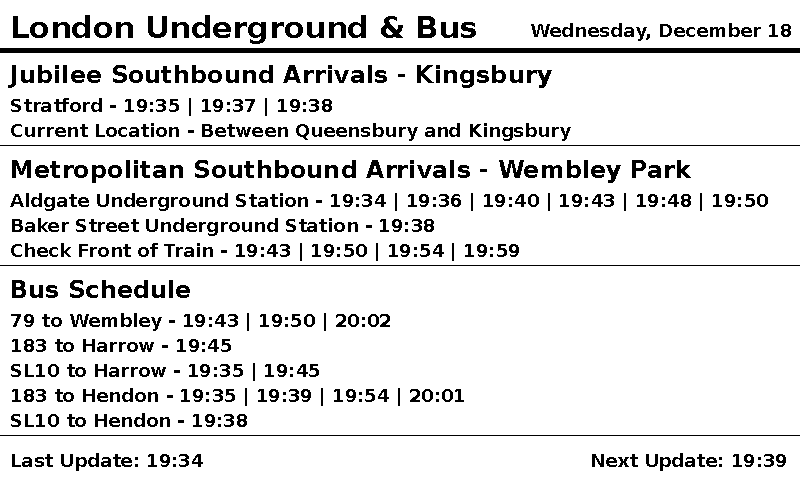
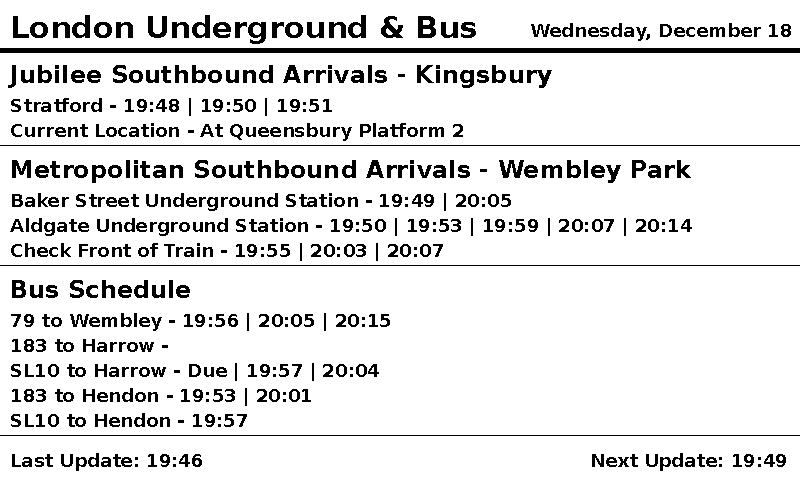
bug fixes

diff --git a/main.py b/main.py
@@ -78,7 +78,7 @@ def full_refresh_api_calls():
   }
 
 def partial_refresh_api_call():
-  kingsburyLatestArrivals = get_arrivals_and_latest_location(kingsbury_station_id, kingsbury_platform_name)
+  return get_arrivals_and_latest_location(kingsbury_station_id, kingsbury_platform_name)
 
 def generate_image():
   result = full_refresh_api_calls()
@@ -94,8 +94,8 @@ def generate_image():
   current_time = now.strftime("%H:%M")
 
   # Add 5 minutes to the current time
-  time_plus_five_minutes = now + timedelta(minutes=5)
-  current_time_plus_five = time_plus_five_minutes.strftime("%H:%M")
+  time_plus_x_minutes = now + timedelta(minutes=6)
+  current_time_plus_five = time_plus_x_minutes.strftime("%H:%M")
 
   image = Image.new("1", (WIDTH, HEIGHT), background_color)  # 1-bit monochrome image
   draw = ImageDraw.Draw(image)
@@ -163,13 +163,14 @@ if count == 0:
       count += 1
       set_refresh_count(count)
 else:
-  partial_refresh_api_call()
+  kingsburyLatestArrivals = partial_refresh_api_call()
   epd.init_part()
   reuse_image = Image.open("output.png")
   reused_draw = ImageDraw.Draw(reuse_image)
   reused_draw.rectangle((5, 90, 600, 140), fill = background_color)
   reused_draw.text((10, 95), "Stratford - " + str(kingsburyLatestArrivals['arrival_times']), font=font_small, fill=font_color)
   reused_draw.text((10, 120), "Current Location - " + str(kingsburyLatestArrivals['current_location']), font=font_small, fill=font_color)
+  reuse_image.save("output.png")
   epd.display_Partial(epd.getbuffer(reuse_image), 0, 0, WIDTH, HEIGHT)
   set_refresh_count(0)
 
